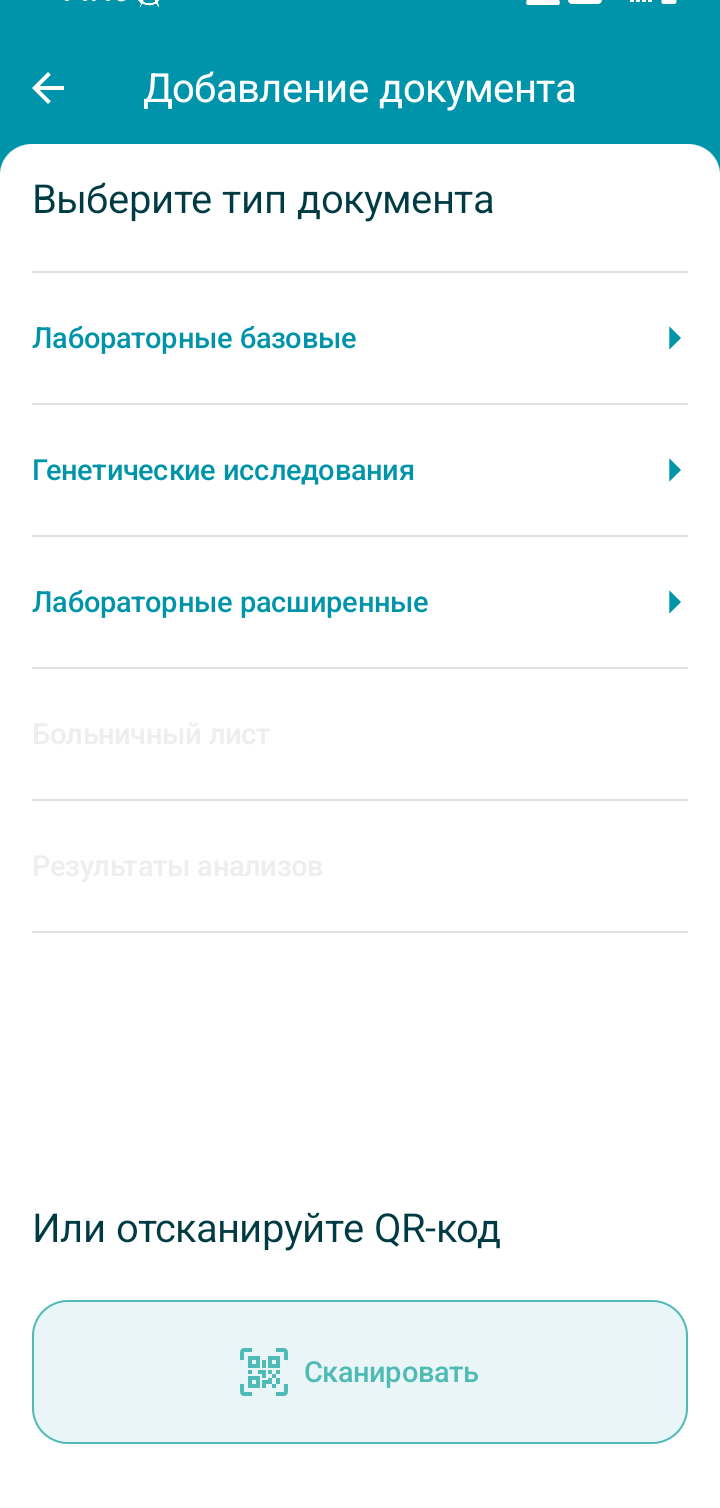
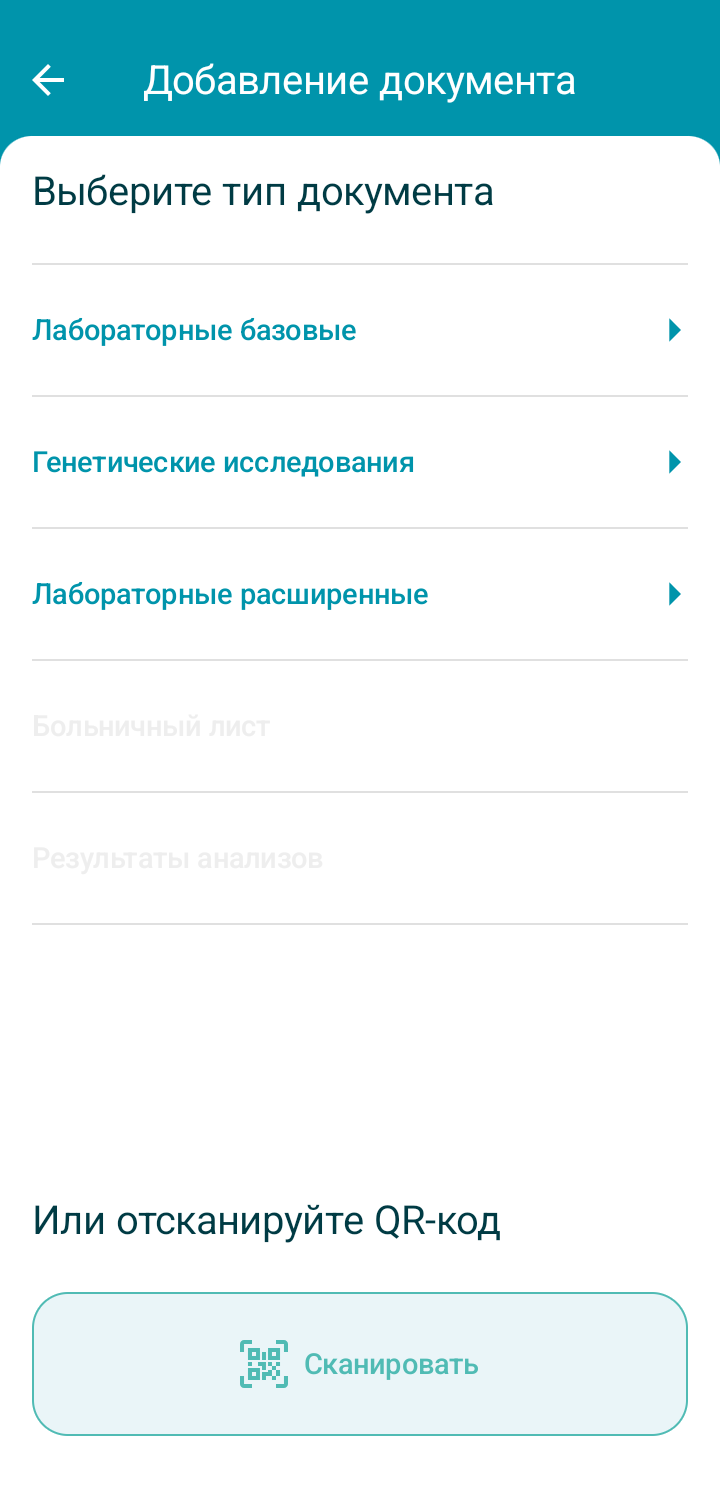
fix: remove remaining Android status bar strip

diff --git a/index.html b/index.html
@@ -165,7 +165,7 @@
               <img
                 src="./public/screenshots/food1.png"
                 width="720"
-                height="1508"
+                height="1500"
                 alt="Экран добавления блюда в дневник питания"
                 loading="lazy"
                 decoding="async"
@@ -173,7 +173,7 @@
               <img
                 src="./public/screenshots/food2.png"
                 width="720"
-                height="1508"
+                height="1500"
                 alt="Экран расчёта КБЖУ для блюда"
                 loading="lazy"
                 decoding="async"
@@ -195,7 +195,7 @@
               <img
                 src="./public/screenshots/habits1.png"
                 width="720"
-                height="1508"
+                height="1500"
                 alt="Недельный прогресс по выбранным привычкам"
                 loading="lazy"
                 decoding="async"
@@ -219,7 +219,7 @@
               <img
                 src="./public/screenshots/doc1.png"
                 width="720"
-                height="1508"
+                height="1500"
                 alt="Экран выбора способа загрузки анализов"
                 loading="lazy"
                 decoding="async"
@@ -227,7 +227,7 @@
               <img
                 src="./public/screenshots/doc2.png"
                 width="720"
-                height="1508"
+                height="1500"
                 alt="Экран распознанных результатов анализа"
                 loading="lazy"
                 decoding="async"
@@ -251,7 +251,7 @@
               <img
                 src="./public/screenshots/integration1.png"
                 width="720"
-                height="1508"
+                height="1500"
                 alt="Настройки подключённых устройств и Health Connect"
                 loading="lazy"
                 decoding="async"

diff --git a/tests/landing.test.js b/tests/landing.test.js
@@ -361,7 +361,7 @@ test("simplicity replaces the task directory with four editorial chapters", () =
     for (const screenshot of screenshots) {
       assert.deepEqual(
         pngSize(new URL(`../public/screenshots/${screenshot}`, import.meta.url)),
-        { width: 720, height: 1508 },
+        { width: 720, height: 1500 },
         screenshot,
       );
     }
